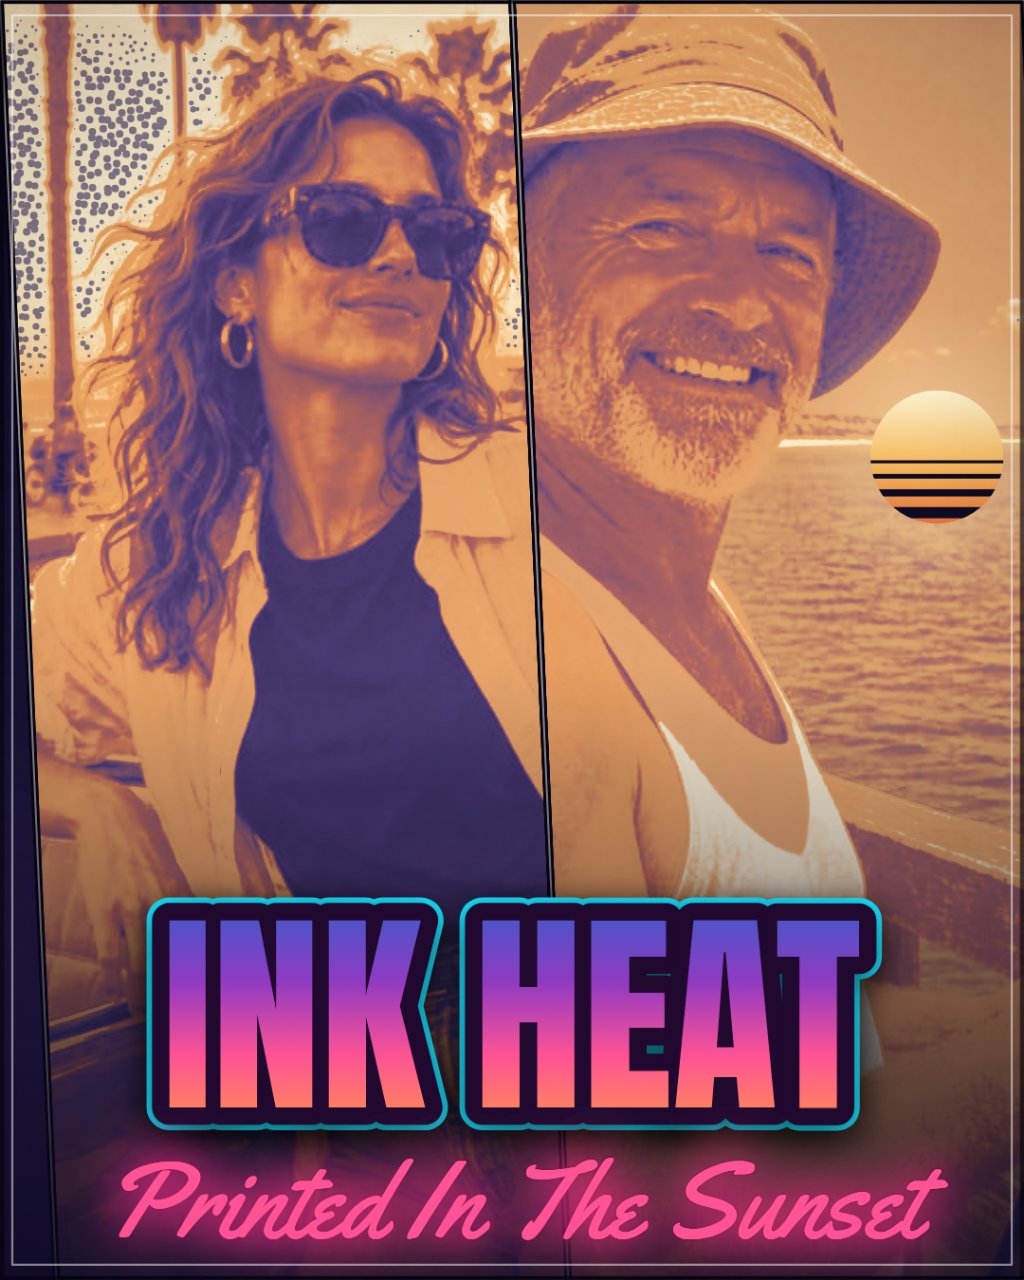
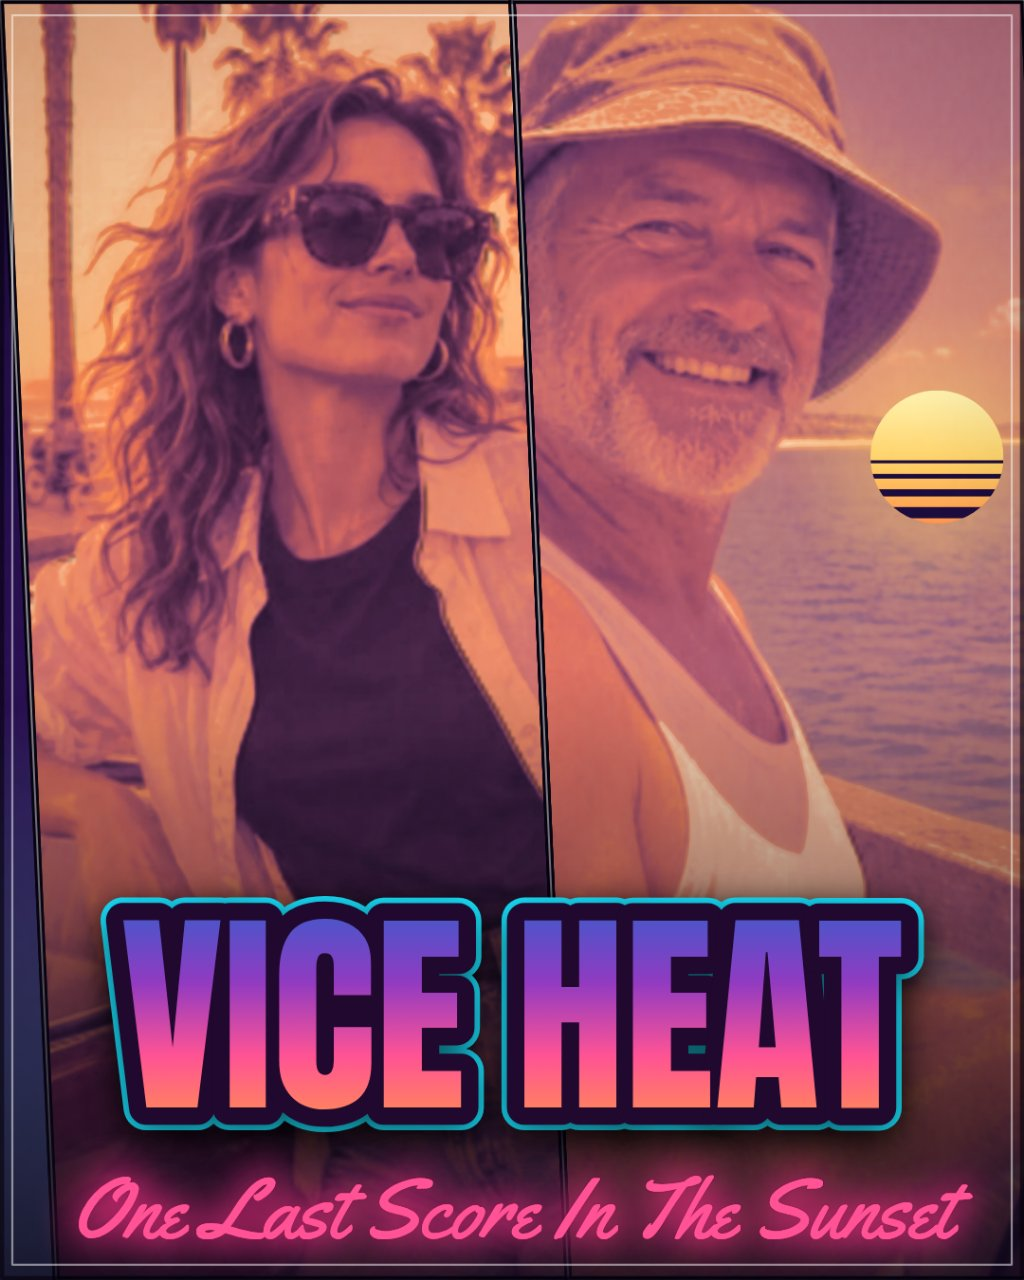
Rebuild the render class: sixth grade 'Key Art' paints photos into illustrated key art (edge-aware softened base, eight-band cel ramp with smoothstepped transitions and shadow protection, Sobel ink contours at quarter resolution in warm plum-brown that outline hair/jaws/clothing/palms and stay off f

diff --git a/app/src/poster.js b/app/src/poster.js
@@ -17,7 +17,10 @@
 // through untouched; very dark photos are lifted hard, under a highlight
 // shoulder that keeps lit signs from blowing out), and a photo shown
 // twice in one layout is mirrored on its later showings so the repeat
-// reads as a different moment.
+// reads as a different moment. The Key Art grade goes a class further:
+// its panels are painted, not just graded — an edge-aware softened base,
+// an eight-band cel ramp, drawn ink contours and a fine paper grain — so
+// a photo reads as hand-drawn key art instead of a filtered photograph.
 
 export const SIZES = {
   '1080x1080': [1080, 1080],
@@ -142,6 +145,46 @@ export const GRADES = {
     accent: '#f5b95e',
     tagText: '#0d0a24',
     scrim: '10, 7, 30',
+  },
+  keyart: {
+    // Key Art: the painted class. Where the other grades are gradient
+    // maps over the photograph, this one re-renders the photo as an
+    // illustration (see `painterly` and gradedPanelCanvas): the photo is
+    // first softened on an edge-aware base (downscaled and re-upscaled
+    // in repeated rounds — micro-detail and skin texture dissolve while the big
+    // shapes and hard contours survive), then mapped through a warm
+    // sunset-family ramp posterized to EIGHT cel bands whose transitions
+    // are smoothstepped, so colour areas read as flat, graded brush
+    // strokes. Shadow protection (like Noir/Ink) cross-fades the bands
+    // to the smooth ramp through the shadows, so faces keep their
+    // modelling as strokes instead of collapsing into plateaus. Over
+    // the graded paint, drawn contours: a Sobel pass over the softened
+    // base (computed at quarter resolution) inks only the STRONG edges
+    // — hair and jaw silhouettes, clothing folds, palm fronds, the
+    // horizon — in a warm dark plum-brown, with alpha proportional to
+    // edge strength; the softened base has already dissolved skin
+    // texture, and the high threshold keeps the ink off faces, whose
+    // shading gradients stay far below it. A fine paper grain finishes
+    // the panel. The auto-exposure lift applies as in every grade.
+    label: 'Key Art',
+    sky: ['#2b1055', '#7597de'],
+    skyTop: '#1c0b3d',
+    sun: '#ffd166',
+    sunCore: '#fff3b0',
+    sunStops: ['#fff3b0', '#ffd166', '#ff944c'],
+    ramp: [[0, [20, 11, 48]], [0.26, [128, 56, 116]], [0.5, [219, 92, 104]], [0.74, [255, 125, 68]], [1, [255, 224, 170]]],
+    ease: [0.15, 0.85],
+    protect: [0.04, 0.75],
+    steps: 8,
+    mix: 0.7,
+    painterly: {
+      scale: 0.45, passes: 3,
+      edgeScale: 0.25, edgeLo: 0.3, edgeHi: 0.58,
+      ink: [46, 20, 44], inkAlpha: 0.66,
+    },
+    accent: '#ff2e63',
+    tagText: '#1c0b3d',
+    scrim: '10, 4, 20',
   },
 };
 
@@ -547,6 +590,92 @@ function photoExposure(img) {
   return expo;
 }
 
+/** Key Art's edge-aware soft base (light version): the panel is drawn
+ *  down to `scale` and back up, `passes` times. Each round trip is a
+ *  resampling, not a box blur: photographic micro-detail — skin texture,
+ *  fabric weave, water sparkle — lives at the frequencies the small
+ *  canvas cannot hold and dissolves, while the big shapes and the hard
+ *  contours (a jaw against a neck, a hat against the sky) survive in
+ *  softened form, exactly the base a cel painter works from. */
+function softenBase(ctx, cw, ch, scale, passes) {
+  const sw = Math.max(1, Math.round(cw * scale));
+  const sh = Math.max(1, Math.round(ch * scale));
+  const small = document.createElement('canvas');
+  small.width = sw;
+  small.height = sh;
+  const sctx = small.getContext('2d');
+  ctx.imageSmoothingEnabled = true;
+  ctx.imageSmoothingQuality = 'high';
+  for (let i = 0; i < passes; i++) {
+    sctx.drawImage(ctx.canvas, 0, 0, sw, sh);
+    ctx.drawImage(small, 0, 0, cw, ch);
+  }
+}
+
+/** Key Art's drawn contours: a Sobel pass over the softened base's
+ *  luminance (exposure lift applied, so a dark photo's contours count at
+ *  their lifted strength), computed at the painterly edge resolution —
+ *  a quarter of the panel — and returned as a small ink canvas to be
+ *  drawn back up over the graded paint; the upscaling softens the ink
+ *  into brush-width lines. Only strong edges are inked: alpha is zero
+ *  below `edgeLo` of the normalized gradient magnitude and ramps to
+ *  `inkAlpha` at `edgeHi`. Because the base was softened first, skin
+ *  carries no texture edges at all, and a face's own shading gradients
+ *  (cheek, brow) sit far below the threshold — what clears it is the
+ *  drawn outline of things: hair and jaw silhouettes, hat brims,
+ *  clothing folds, palm fronds, the sea's horizon. */
+function painterlyInkCanvas(px, cw, ch, expo, p) {
+  const es = p.edgeScale;
+  const ew = Math.max(2, Math.floor(cw * es));
+  const eh = Math.max(2, Math.floor(ch * es));
+  const lum = new Float32Array(ew * eh);
+  for (let y = 0; y < eh; y++) {
+    const sy = Math.min(ch - 1, Math.floor(y / es));
+    for (let x = 0; x < ew; x++) {
+      const sx = Math.min(cw - 1, Math.floor(x / es));
+      const o = (sy * cw + sx) * 4;
+      let r = px[o];
+      let g = px[o + 1];
+      let b = px[o + 2];
+      if (expo.lut) {
+        r = expo.lut[r];
+        g = expo.lut[g];
+        b = expo.lut[b];
+      }
+      lum[y * ew + x] = (r * 77 + g * 150 + b * 29) >> 8;
+    }
+  }
+  const out = document.createElement('canvas');
+  out.width = ew;
+  out.height = eh;
+  const octx = out.getContext('2d');
+  const id = octx.createImageData(ew, eh);
+  const od = id.data;
+  const [ir, ig, ib] = p.ink;
+  for (let y = 0; y < eh; y++) {
+    for (let x = 0; x < ew; x++) {
+      const xm = Math.max(0, x - 1);
+      const xp = Math.min(ew - 1, x + 1);
+      const ym = Math.max(0, y - 1);
+      const yp = Math.min(eh - 1, y + 1);
+      const gx = (lum[ym * ew + xp] + 2 * lum[y * ew + xp] + lum[yp * ew + xp])
+        - (lum[ym * ew + xm] + 2 * lum[y * ew + xm] + lum[yp * ew + xm]);
+      const gy = (lum[yp * ew + xm] + 2 * lum[yp * ew + x] + lum[yp * ew + xp])
+        - (lum[ym * ew + xm] + 2 * lum[ym * ew + x] + lum[ym * ew + xp]);
+      const mag = Math.sqrt(gx * gx + gy * gy) / 1020;
+      const a = smoothstep(p.edgeLo, p.edgeHi, mag) * p.inkAlpha;
+      if (a <= 0.004) continue;
+      const o = (y * ew + x) * 4;
+      od[o] = ir;
+      od[o + 1] = ig;
+      od[o + 2] = ib;
+      od[o + 3] = Math.round(255 * a);
+    }
+  }
+  octx.putImageData(id, 0, 0);
+  return out;
+}
+
 /** A panel's photo, drawn cover-fit into its own canvas and run through the
  *  grade's gradient map. Cached per (photo, grade, panel size, framing) so
  *  repeat renders and exports stay fast. */
@@ -575,6 +704,11 @@ export function gradedPanelCanvas(shape, photo, gradeKey) {
   ctx.drawImage(img, f.dx, f.dy, f.dw, f.dh);
   if (photo.flip) ctx.restore();
 
+  // Key Art paints from a softened base (see softenBase); every other
+  // grade grades the photograph exactly as drawn.
+  const painterly = (GRADES[gradeKey] ?? GRADES.sunset).painterly;
+  if (painterly) softenBase(ctx, cw, ch, painterly.scale, painterly.passes);
+
   const grade = GRADES[gradeKey] ?? GRADES.sunset;
   const mix = grade.mix;
   // Dark photos are exposure-lifted before grading (bright photos get a
@@ -582,6 +716,7 @@ export function gradedPanelCanvas(shape, photo, gradeKey) {
   const expo = photoExposure(img);
   let graded = null;
   let gate = null;
+  let inkCanvas = null;
   if (mix > 0) {
     const lut = gradeLUT(gradeKey);
     // Shadow protection (grades that carry `protect`: Noir, Poster Ink).
@@ -597,6 +732,10 @@ export function gradedPanelCanvas(shape, photo, gradeKey) {
     // The halftone's gate map is measured on the photo as drawn, before
     // grading (and before the exposure lift) changes its detail.
     gate = grade.halftone ? halftoneGateMap(px, cw, ch) : null;
+    // Key Art's ink contours are measured on the softened base as drawn
+    // (before the grading loop rewrites these pixels), at quarter
+    // resolution — see painterlyInkCanvas.
+    if (painterly) inkCanvas = painterlyInkCanvas(px, cw, ch, expo, painterly);
     // Ordered dithering (grades that carry `dither`: Noir). The posterized
     // lookup is taken at a luminance perturbed by the pixel's Bayer
     // threshold, scaled by the grade's amplitude in tonal steps: inside a
@@ -650,6 +789,23 @@ export function gradedPanelCanvas(shape, photo, gradeKey) {
     graded = px;
   }
   if (grade.halftone && graded) applyHalftone(ctx, cw, ch, graded, grade, gate);
+  if (painterly && graded && inkCanvas) {
+    // The drawn contours go over the graded paint, drawn back up from
+    // their quarter-resolution canvas so the lines land at brush width
+    // with soft edges; then a whisper of the print-grain tile at panel
+    // level, so the paint itself carries paper texture under the
+    // poster's own finishing pass.
+    ctx.save();
+    ctx.imageSmoothingEnabled = true;
+    ctx.imageSmoothingQuality = 'high';
+    ctx.drawImage(inkCanvas, 0, 0, cw, ch);
+    ctx.restore();
+    ctx.save();
+    ctx.globalAlpha = 0.05;
+    ctx.globalCompositeOperation = 'overlay';
+    ctx.drawImage(getGrainTile(), 0, 0, cw, ch);
+    ctx.restore();
+  }
 
   if (panelCache.size > 48) panelCache.delete(panelCache.keys().next().value);
   panelCache.set(key, canvas);

diff --git a/app/style.css b/app/style.css
@@ -64,6 +64,7 @@ button.sw-neon.on { background: linear-gradient(90deg, #00b3c8, #ff00a8); }
 button.sw-gold.on { background: linear-gradient(90deg, #e8a100, #7a5200); color: #fff; }
 button.sw-noir.on { background: #e8e8e8; color: #0a0a0a; border-color: #e8e8e8; }
 button.sw-ink.on { background: linear-gradient(90deg, #2a1e5e, #e2703a); color: #fdf3d0; border-color: #e2703a; }
+button.sw-keyart.on { background: linear-gradient(90deg, #913bc2, #ff7b00); color: #fff; border-color: #ff944c; }
 
 .file { cursor: pointer; }
 input[type=file] { font: inherit; font-weight: 400; }

diff --git a/app/index.html b/app/index.html
@@ -34,6 +34,7 @@
         <button type="button" data-grade="gold" class="sw-gold">Palm Gold</button>
         <button type="button" data-grade="noir" class="sw-noir">Noir</button>
         <button type="button" data-grade="ink" class="sw-ink">Poster Ink</button>
+        <button type="button" data-grade="keyart" class="sw-keyart">Key Art</button>
       </div>
     </fieldset>
 

diff --git a/README.md b/README.md
@@ -4,7 +4,7 @@
 [![rank](https://make.fun/badge/gta6-cover-art-01/cleoworks/gta6-cover-art/rank.svg)](https://make.fun/bounty/gta6-cover-art-01/leaderboard?utm_source=github&utm_medium=readme&utm_campaign=gta6-cover-art-01)
 [![reward](https://make.fun/badge/gta6-cover-art-01/cleoworks/gta6-cover-art/reward.svg)](https://make.fun/bounty/gta6-cover-art-01?utm_source=github&utm_medium=readme&utm_campaign=gta6-cover-art-01)
 
-VICE COVER turns your photos and a caption into GTA 6-style poster cover art: multi-panel layouts (Vice Trio, Split Duo, Solo Hero, a five-panel Cover Grid with one hero panel and four satellites, and Mosaic — a nine-panel 3×3 grid in the classic cover pattern whose lettering sits in a title band below the grid, so all nine panels stay fully visible), a sunset-gradient title with a double outline (a polished chrome gradient in Noir), a neon script tagline, and five colour grades (Sunset, Neon, Palm Gold, Noir, and Poster Ink — a bold screen-print duotone with a firmer posterize and a jittered halftone dot screen that lives in smooth highlights — sky, sea, glint — and fades out over detailed texture (fabric, hair) and off bright neutral surfaces like white clothing entirely, never on faces), all applied as true gradient maps with a light cel-shade posterize. Noir and Poster Ink carry shadow protection: through the shadows their ramps cross-fade to an un-posterized gradient map, so a face sitting in shade — or a whole photo taken at night — keeps its features instead of collapsing into one flat tone; Noir additionally runs an ordered Bayer dither through its posterize, breaking the flat grey plateaus a B/W quantization leaves on faces into a fine print texture that restores their tonal modelling. An automatic exposure lift steadies dark photos before grading (measured on the photo's mean luminance; bright photos pass through completely untouched, genuinely very dark photos get a substantially stronger lift whose highlight shoulder keeps lit neon signs separated instead of blown out, and night shots still look like night). Where a layout has more panels than loaded photos, a photo's later showings are mirrored and re-cropped, so a repeat reads as a different moment of the same shoot rather than a copy-paste. Six bundled sample photos (three bright Vice scenes, a neon night portrait, a marina portrait in a red dress and a surfer carrying her board at golden hour) show the range; drop in any photos of your own, drag to crop each panel, pick a post size (square, portrait or landscape), and export a share-ready PNG — one size, or all three sizes at once. Everything runs locally in the browser — your photos never leave your machine, and the app works fully offline with no network calls and no Rockstar artwork, logos or fonts.
+VICE COVER turns your photos and a caption into GTA 6-style poster cover art: multi-panel layouts (Vice Trio, Split Duo, Solo Hero, a five-panel Cover Grid with one hero panel and four satellites, and Mosaic — a nine-panel 3×3 grid in the classic cover pattern whose lettering sits in a title band below the grid, so all nine panels stay fully visible), a sunset-gradient title with a double outline (a polished chrome gradient in Noir), a neon script tagline, and six colour grades (Sunset, Neon, Palm Gold, Noir, Poster Ink — a bold screen-print duotone with a firmer posterize and a jittered halftone dot screen that lives in smooth highlights — sky, sea, glint — and fades out over detailed texture (fabric, hair) and off bright neutral surfaces like white clothing entirely, never on faces — and Key Art, the painted class described below), all but Key Art applied as true gradient maps with a light cel-shade posterize. Noir and Poster Ink carry shadow protection: through the shadows their ramps cross-fade to an un-posterized gradient map, so a face sitting in shade — or a whole photo taken at night — keeps its features instead of collapsing into one flat tone; Noir additionally runs an ordered Bayer dither through its posterize, breaking the flat grey plateaus a B/W quantization leaves on faces into a fine print texture that restores their tonal modelling. Key Art paints instead of grading: the photo is first softened on an edge-aware base (repeated downscale–upscale rounds dissolve photographic micro-detail and skin texture while the big shapes and hard contours survive), then mapped through a warm sunset-family ramp posterized to eight cel bands whose transitions are smoothstepped — colour areas read as flat, graded brush strokes — with shadow protection like Noir's, and finished with drawn ink contours: a Sobel pass over the softened base, computed at quarter resolution, inks only the strong edges (hair and jaw silhouettes, hat brims, clothing folds, palm fronds, the horizon) in a warm dark plum-brown with alpha proportional to edge strength, so the outlines read as drawn while faces — whose shading gradients sit far below the ink threshold — stay clean, under a fine paper grain. An automatic exposure lift steadies dark photos before grading (measured on the photo's mean luminance; bright photos pass through completely untouched, genuinely very dark photos get a substantially stronger lift whose highlight shoulder keeps lit neon signs separated instead of blown out, and night shots still look like night). Where a layout has more panels than loaded photos, a photo's later showings are mirrored and re-cropped, so a repeat reads as a different moment of the same shoot rather than a copy-paste. Six bundled sample photos (three bright Vice scenes, a neon night portrait, a marina portrait in a red dress and a surfer carrying her board at golden hour) show the range; drop in any photos of your own, drag to crop each panel, pick a post size (square, portrait or landscape), and export a share-ready PNG — one size, or all three sizes at once. Everything runs locally in the browser — your photos never leave your machine, and the app works fully offline with no network calls and no Rockstar artwork, logos or fonts.
 
 Open `app/index.html` in a browser to use it.
 
